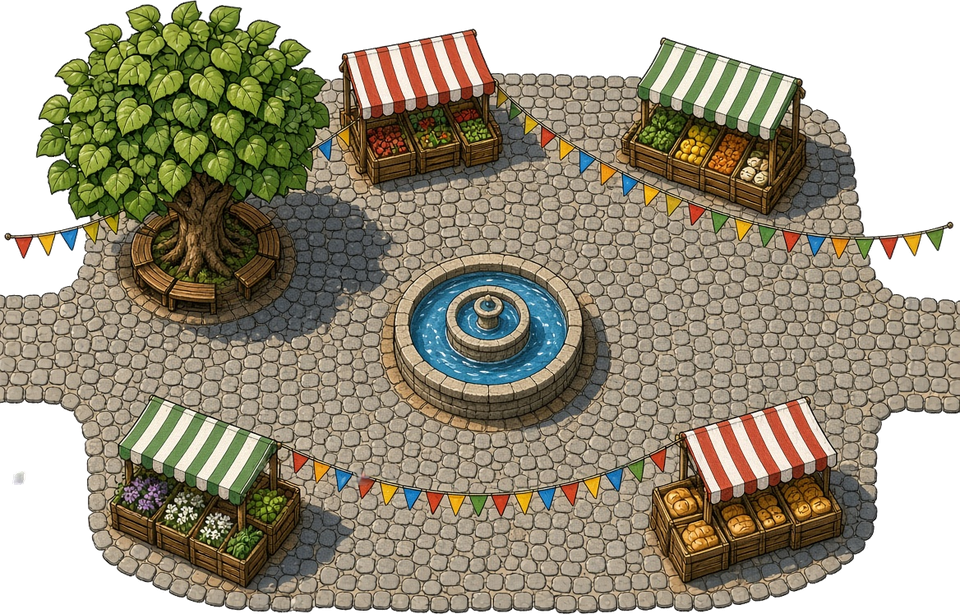
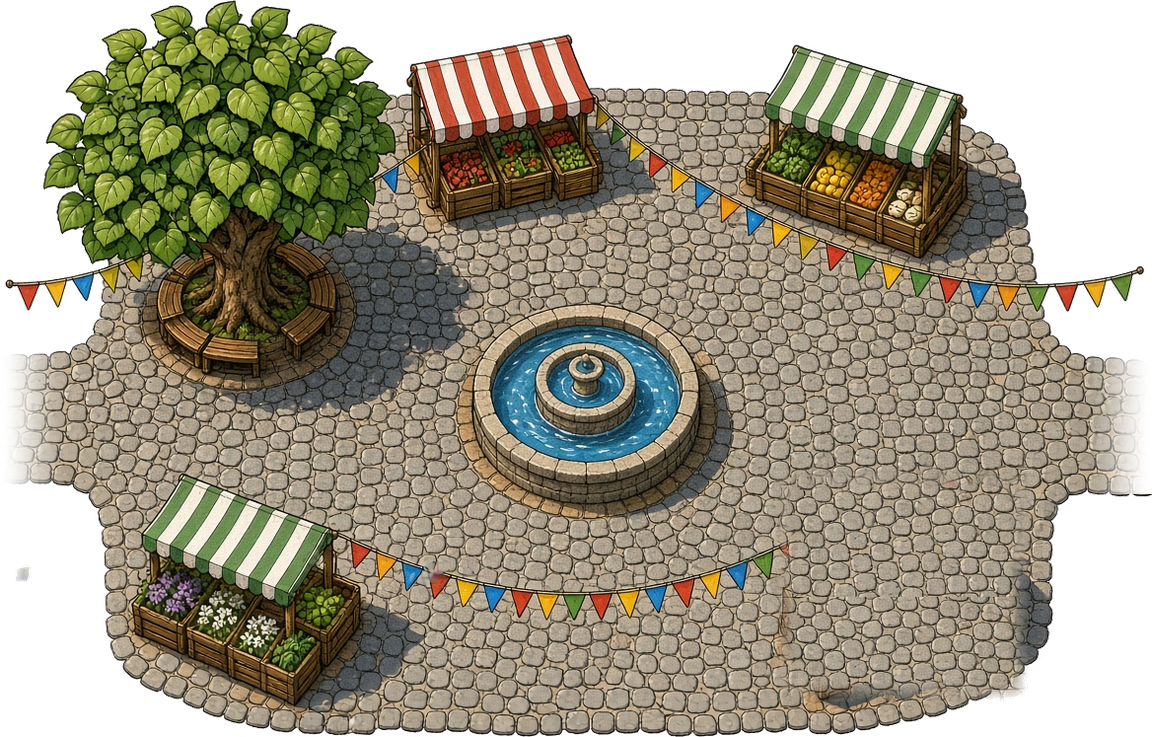
Marktplatz: 36 m groß, Brotstand entfernt, Straße frei um den Brunnen, Pflasterenden laufen weich in den Erdweg aus; Hütchen erreichbar
Claude-Session: https://claude.ai/code/session_01WRaeiUW1SS7Jnky8dn2gGr

Changed region(s): [[0.6562, 0.6498, 0.9062, 0.9593], [0.9375, 0.4642, 1.0, 0.6808], [0.0, 0.4642, 0.0625, 0.6808]]

diff --git a/klapperkiste/design/karte.js b/klapperkiste/design/karte.js
@@ -116,12 +116,12 @@ window.Karte = function (opt = {}) {
   // Klappertal-Dorf (G11): Bilder von oben mit linker oberer Ecke (X, Y); haus = Gebäude (Kollision),
   // Marktplatz mit Brunnen in der Mitte, die Straße läuft unten um den Brunnen herum
   const DORF = { schild: [356, 238.5], fest: [360, 245.3], flaeche: [366, 196, 478, 304],
-    platz: { X: 392, Y: 239.8 }, brunnen: [407.3, 250, 3.1],
+    platz: { X: 392, Y: 237.2 }, brunnen: [410.3, 250, 3.5], // Platz 36 m breit
     eis: { X: 372, Y: 233, haus: [375.4, 233, 387.8, 241.4] },
     wache: { X: 432, Y: 226, haus: [436.8, 226, 449.5, 235.2] },
     haeuser: [{ bild: "dorfhaus_1", X: 458, Y: 236, haus: [460, 236, 469.5, 244] },
       { bild: "dorfhaus_2", X: 434, Y: 253.5, haus: [436, 253.5, 444.5, 260.5] }] };
-  const DORFSTRASSE = [[388, 250], [398, 250], [403, 254.5], [408.5, 254.5], [413.5, 250], [472, 250]];
+  const DORFSTRASSE = [[388, 250], [402.5, 249.5], [408, 255.6], [413.5, 255.6], [419.5, 250], [472, 250]];
   const DORF_HAEUSER = [DORF.eis.haus, DORF.wache.haus, ...DORF.haeuser.map((h) => h.haus)];
   const WEGE = [WEG, ABZWEIG, FELDRAND, WEIDEWEG, HOFWEG, FELDERWEG, WALDPFAD, HOLZWEG, UFERPFAD, SCHILFPFAD, MUEHLENWEG, LANDSTRASSE, DORFSTRASSE];
   const WEGE_OST = [LANDSTRASSE, DORFSTRASSE]; // Bäume und Büsche daran mit eigenem Zufall (rndOst)
@@ -997,12 +997,12 @@ window.Karte = function (opt = {}) {
     funke([["hallo", n.slalom === "medaille" ? "Na, Champion? Noch eine Runde Slalom, für die Bestzeit?" : "Bereit für den Dorf-Slalom? Die Hütchen stehen!"]], () => { hudNeu(); slalomAnbieten(); });
   }
   // Funkes Hütchen: liegen am Wegrand im Dorf und an der Landstraße, nah ranfahren sammelt sie ein
-  const HUETCHEN = [[328, 248.2], [351, 241.6], [372, 251], [419, 257.6], [452, 252.6], [474, 247.4]];
+  const HUETCHEN = [[328, 248.2], [351, 241.6], [372, 251], [415, 258], [452, 252.6], [474, 247.4]];
   function huetchenSchritt() {
     const n = spiel.neben;
     if (n.slalom !== "huetchen") return;
     HUETCHEN.forEach(([x, y], i) => {
-      if (n.huetchenWeg.includes(i) || Math.hypot(auto.x - x, auto.y - y) > 4) return;
+      if (n.huetchenWeg.includes(i) || Math.hypot(auto.x - x, auto.y - y) > 5) return;
       n.huetchenWeg.push(i); hudNeu();
       const fehlt = HUETCHEN.length - n.huetchenWeg.length;
       toast(fehlt ? `🔶 Hütchen eingesammelt! (${n.huetchenWeg.length}/${HUETCHEN.length})` : "🔶 Alle 6 Hütchen! Bring sie Funke auf die Wache.", 3000);

diff --git a/klapperkiste/tools/einmalig/marktplatz_platz.py b/klapperkiste/tools/einmalig/marktplatz_platz.py
@@ -1,0 +1,76 @@
+"""Einmalige Bearbeitung: Marktplatz mit mehr Platz um den Brunnen und weichen Straßenenden.
+
+1. Der Brotstand unten rechts versperrt die Durchfahrt um den Brunnen. Er wird mit Pflaster aus
+   einer freien Stelle des Platzes übermalt (weich überblendet).
+2. Danach wird der Platz mit objekt.py auf 36 m eingepasst (vorher 30 m).
+3. Die Pflasterstraßen links und rechts laufen über 2,2 m weich in den Erdweg aus (Alpha-Rampe),
+   statt mit einer harten Kante aufzuhören.
+
+Aufruf (aus dem Repo-Wurzelordner):
+  python klapperkiste/tools/einmalig/marktplatz_platz.py
+"""
+
+from __future__ import annotations
+
+import os
+import subprocess
+import sys
+
+from PIL import Image, ImageDraw, ImageFilter
+
+ROOT = os.path.abspath(os.path.join(os.path.dirname(__file__), "..", ".."))
+ROH = os.path.join(ROOT, "assets", "karte", "objekte", "roh")
+ZIEL = os.path.join(ROOT, "assets", "karte", "objekte", "marktplatz.png")
+STAND = (785, 478, 1042, 714)      # Brotstand mit Schatten (Pixel im Rohbild), innerhalb der Platzkante
+QUELLE = (740, 318, 1030, 478)     # freie Pflasterfläche rechts vom Brunnen
+METER = 36
+RAMPE_M = 2.2                      # weicher Auslauf der Straßen
+STRASSE = (0.43, 0.67)             # Höhe der Pflasterstraßen im Bild (Anteil)
+
+
+def stand_weg(bild: Image.Image) -> Image.Image:
+    x0, y0, x1, y1 = STAND
+    w, h = x1 - x0, y1 - y0
+    flicken = Image.new("RGB", (w, h))
+    q = bild.crop(QUELLE)
+    for yy in range(0, h, q.height - 30):
+        flicken.paste(q.crop((0, 0, min(q.width, w), min(q.height, h - yy))), (0, yy))
+        if q.width < w:
+            flicken.paste(q.crop((0, 0, w - q.width, min(q.height, h - yy))), (q.width, yy))
+    # der Bereich liegt ganz innerhalb der Platzkante: alles ersetzen, Rand weich überblenden
+    maske = Image.new("L", (w, h), 0)
+    ImageDraw.Draw(maske).rectangle((10, 10, w - 10, h - 10), fill=255)
+    maske = maske.filter(ImageFilter.GaussianBlur(6))
+    alt = bild.crop(STAND)
+    alt.paste(flicken, (0, 0), maske)
+    bild.paste(alt, (x0, y0))
+    return bild
+
+
+def strassen_weich(pfad: str) -> None:
+    bild = Image.open(pfad).convert("RGBA")
+    px, w, h = bild.load(), bild.width, bild.height
+    rampe = round(RAMPE_M * 32)
+    y0, y1 = round(h * STRASSE[0]), round(h * STRASSE[1])
+    for y in range(y0, y1):
+        for i in range(rampe):
+            f = (i + 0.5) / rampe
+            f = f * f * (3 - 2 * f)
+            for x in (i, w - 1 - i):
+                r, g, b, a = px[x, y]
+                px[x, y] = (r, g, b, round(a * f))
+    bild.save(pfad)
+
+
+def main() -> int:
+    bild = stand_weg(Image.open(os.path.join(ROH, "marktplatz.jpg")).convert("RGB"))
+    bearbeitet = os.path.join(ROH, "marktplatz_ohne_brotstand.png")
+    bild.save(bearbeitet)
+    werk = os.path.join(ROOT, "tools", "objekt.py")
+    subprocess.run([sys.executable, werk, "einpassen", bearbeitet, "marktplatz", "--meter", str(METER)], check=True)
+    strassen_weich(ZIEL)
+    return 0
+
+
+if __name__ == "__main__":
+    sys.exit(main())
